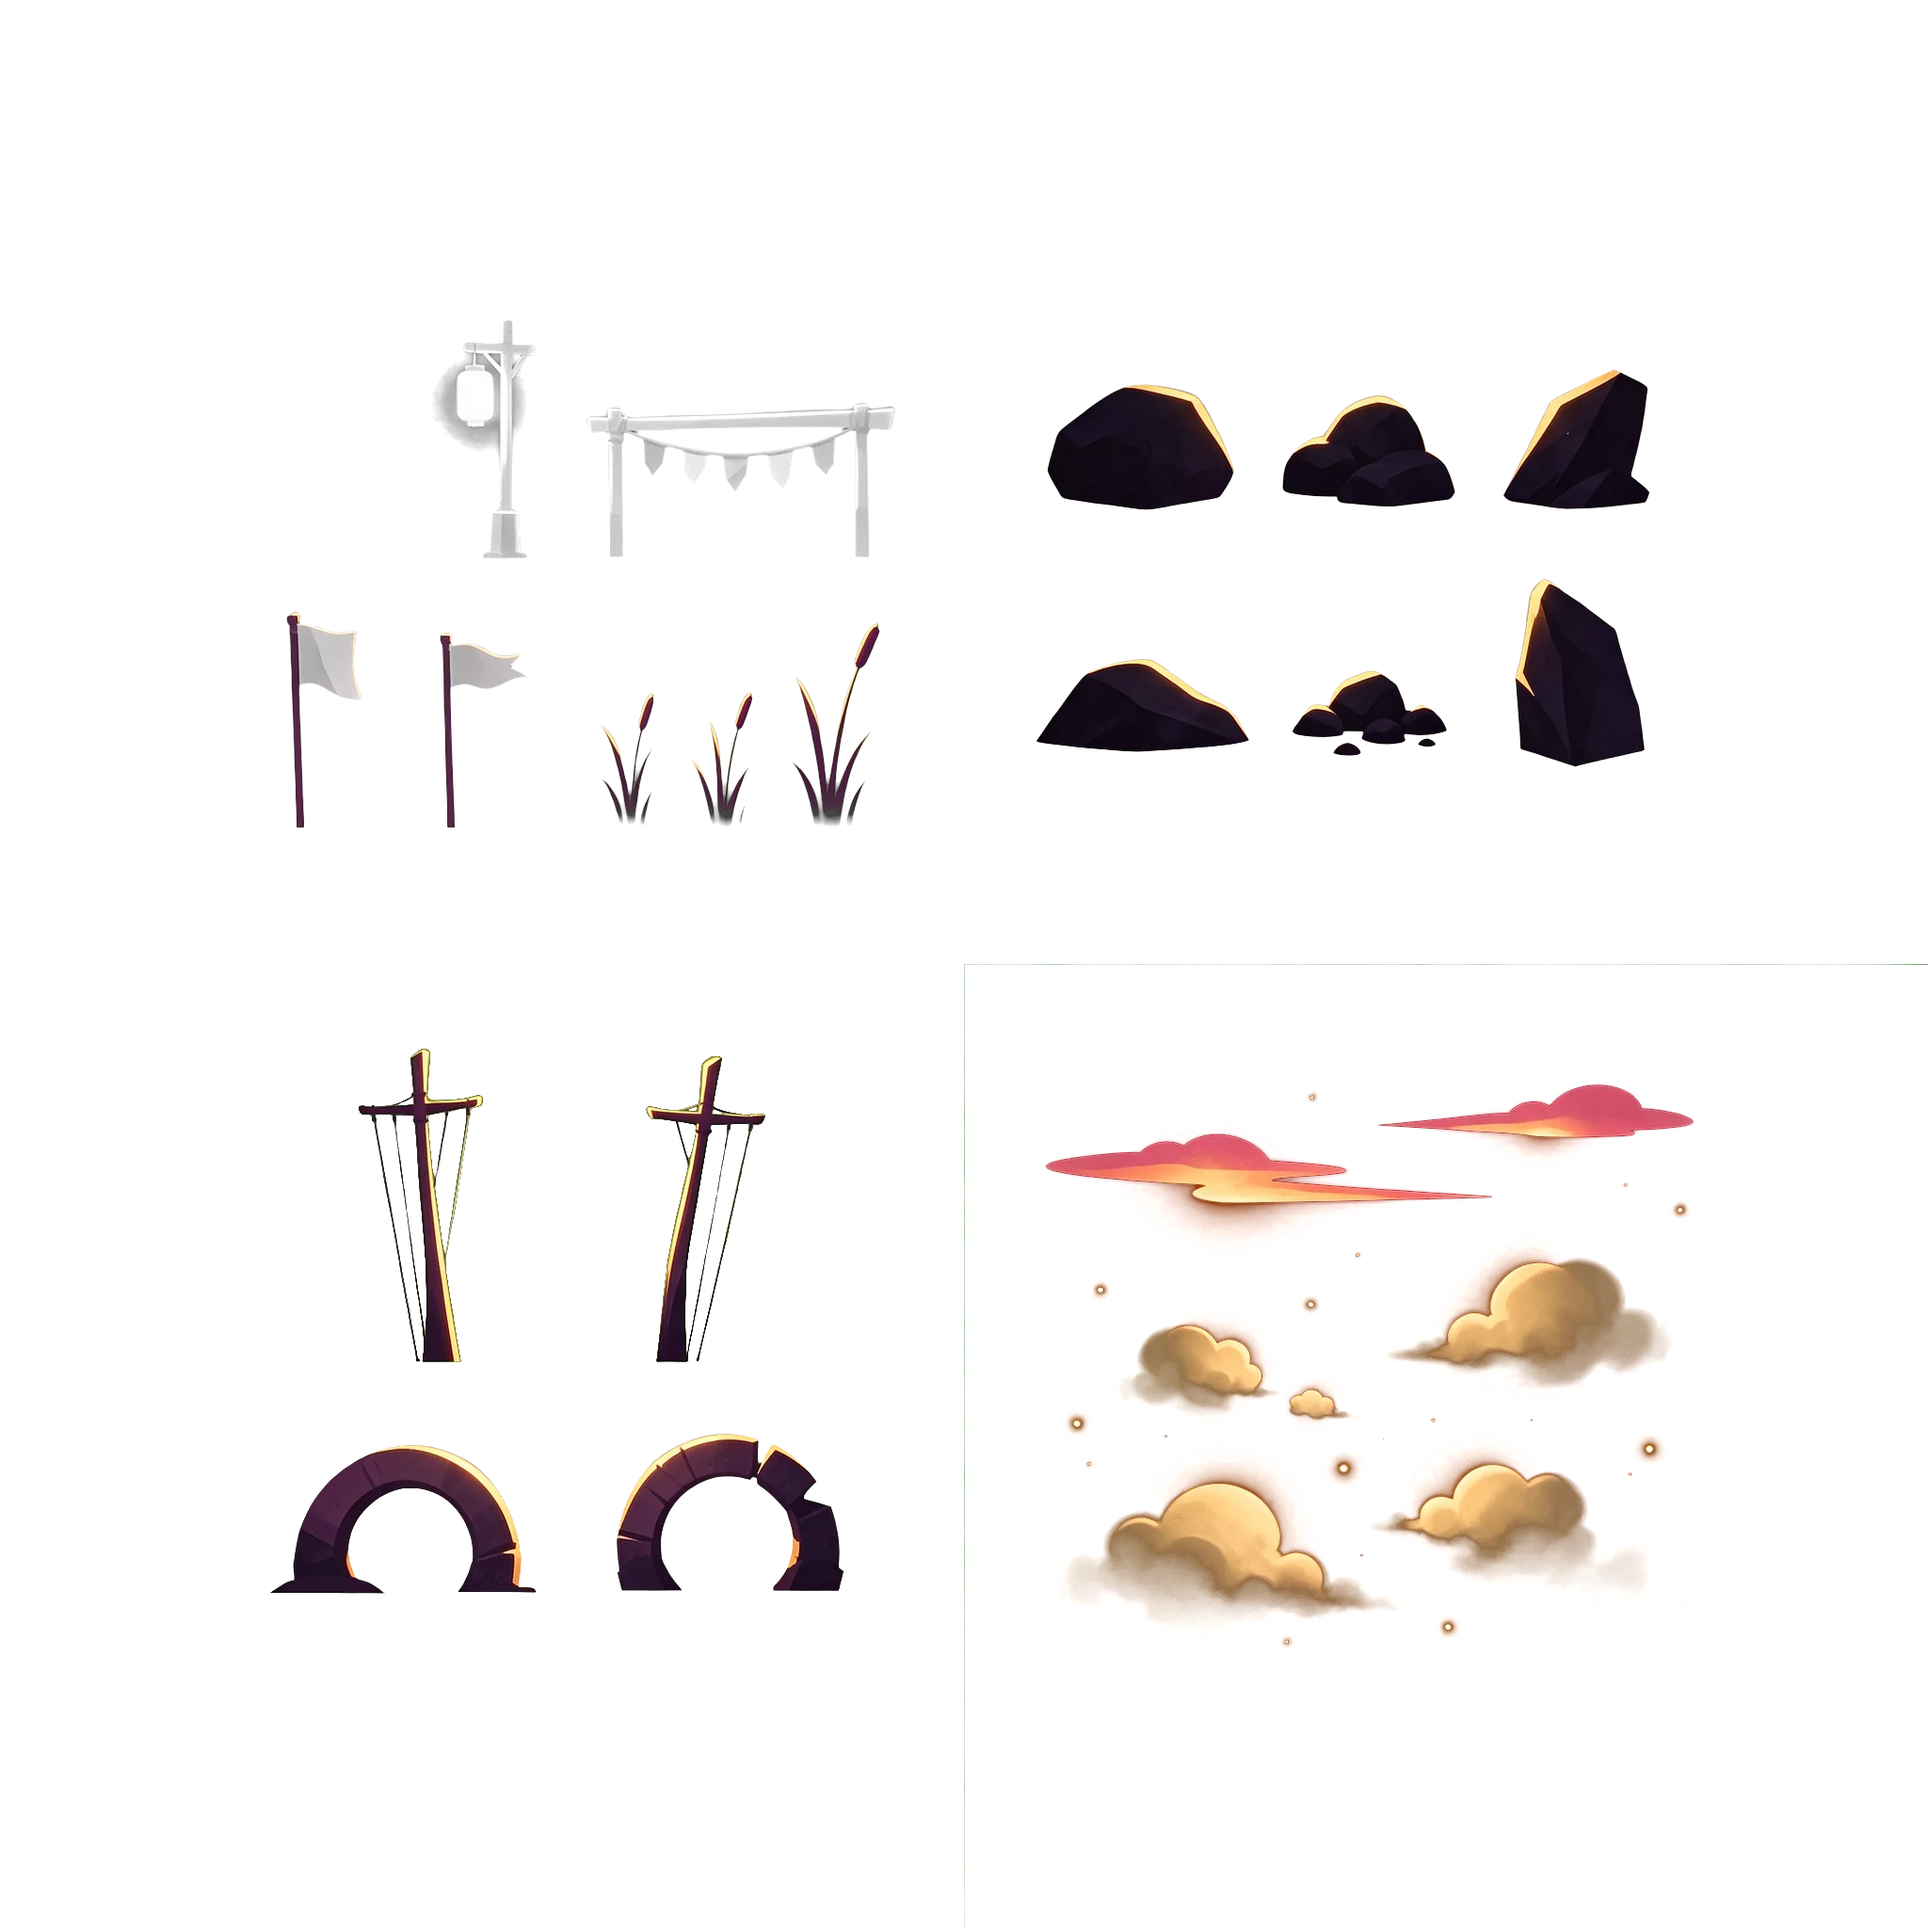
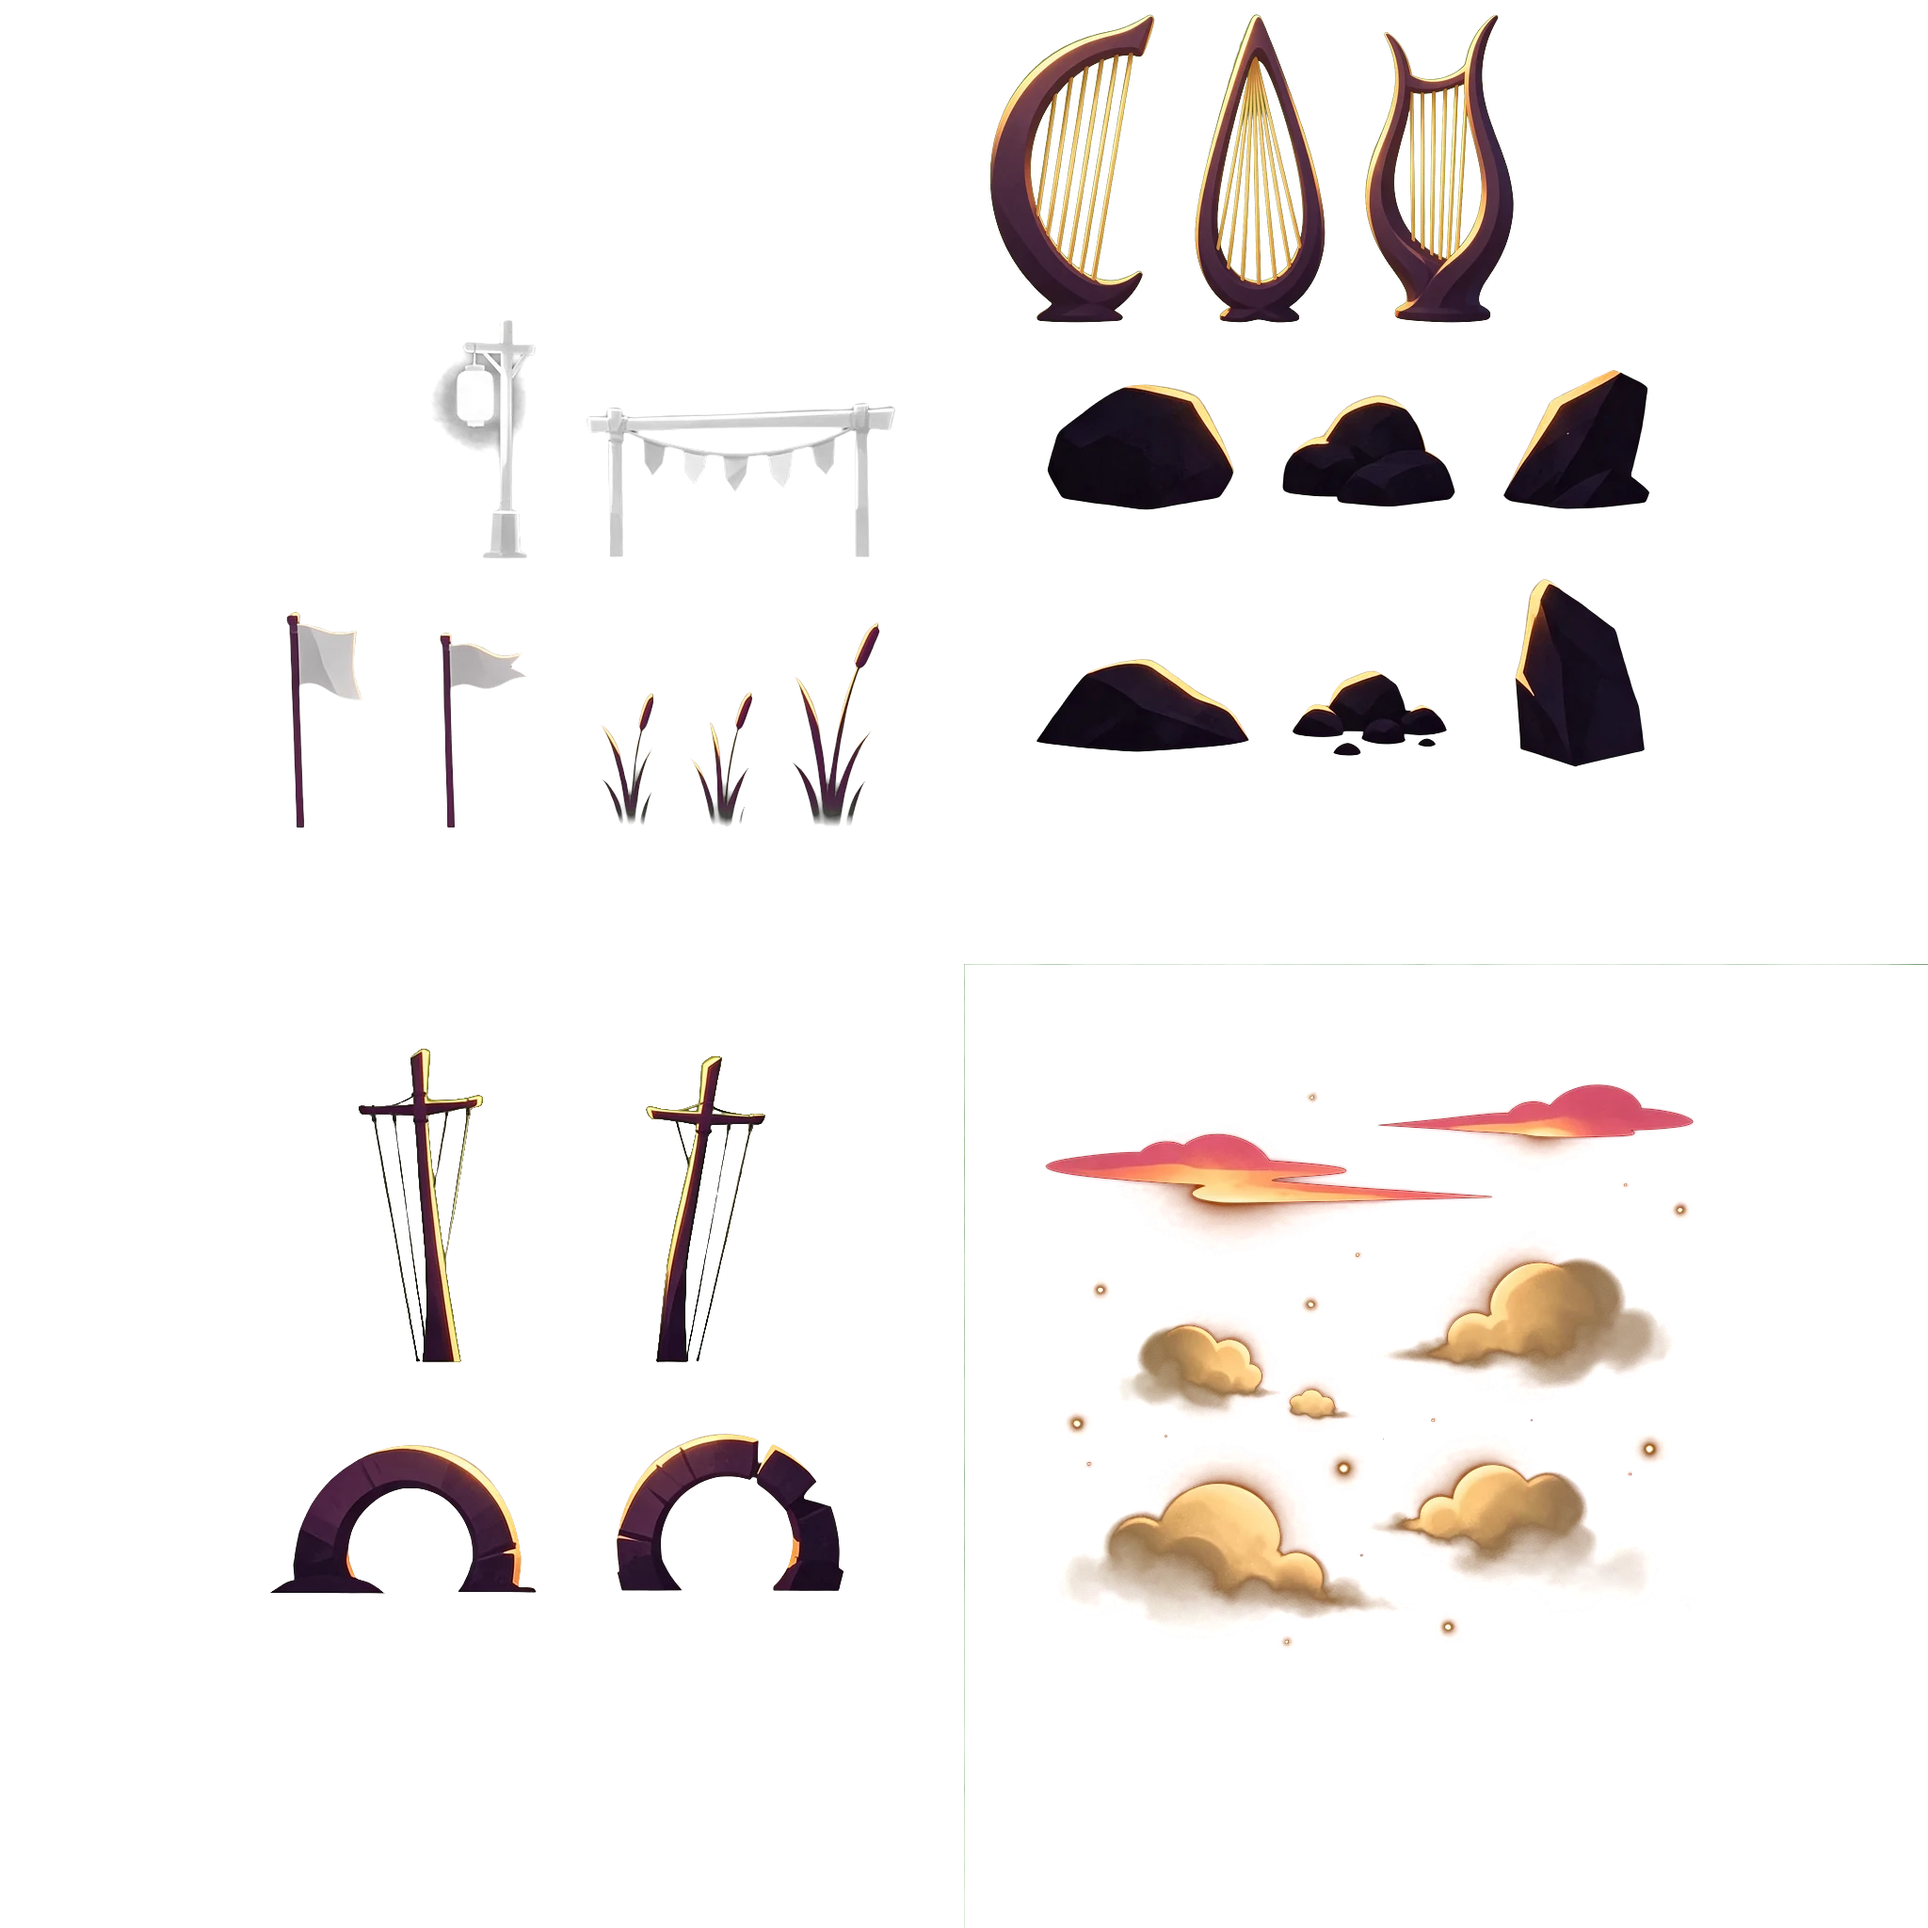
Ridgeline: harpC/D/E wind-harp art from design thread
Claude-Session: https://claude.ai/code/session_01Lcw2xx8cVApTMWxPfFNBkt

Changed region(s): [[0.5, 0.0, 0.7812, 0.1875]]

diff --git a/pages/ridgeline/src/duneatlas.js b/pages/ridgeline/src/duneatlas.js
@@ -2,7 +2,7 @@
 // measured from dune-atlas.json cells (alpha > 20, 1 px margin) so billboard sizes map to the art, not to the padded cells.
 export const ATLAS_SIZE = 2048;
 export const ATLAS_URL = new URL('../assets/dune-atlas.webp', import.meta.url).href;
-export const CELLS = {"gateFrame": [621, 426, 332, 168], "flagA": [302, 648, 85, 234], "flagB": [465, 670, 98, 212], "reed1": [636, 734, 60, 145], "reed2": [731, 732, 70, 148], "reed3": [838, 659, 99, 221], "rockLump": [1110, 406, 203, 138], "rockTwo": [1360, 418, 188, 122], "rockSlab": [1595, 391, 159, 152], "rockWhale": [1098, 698, 231, 103], "rockPebbles": [1371, 710, 168, 95], "rockShard": [1607, 613, 142, 204], "harpA": [380, 1113, 134, 335], "harpB": [685, 1120, 129, 328], "arch": [285, 1533, 287, 162], "archBroken": [653, 1521, 245, 171]};
+export const CELLS = {"harpC": [1050, 14, 178, 330], "harpD": [1268, 14, 141, 330], "harpE": [1449, 14, 160, 330], "gateFrame": [621, 426, 332, 168], "flagA": [302, 648, 85, 234], "flagB": [465, 670, 98, 212], "reed1": [636, 734, 60, 145], "reed2": [731, 732, 70, 148], "reed3": [838, 659, 99, 221], "rockLump": [1110, 406, 203, 138], "rockTwo": [1360, 418, 188, 122], "rockSlab": [1595, 391, 159, 152], "rockWhale": [1098, 698, 231, 103], "rockPebbles": [1371, 710, 168, 95], "rockShard": [1607, 613, 142, 204], "harpA": [380, 1113, 134, 335], "harpB": [685, 1120, 129, 328], "arch": [285, 1533, 287, 162], "archBroken": [653, 1521, 245, 171]};
 // fx quadrant cells ({x,y,w,h}, y from top) for dunefx.js
 export const FX_CELLS = {"cloudA": {"x": 1088, "y": 1184, "w": 520, "h": 132}, "cloudB": {"x": 1444, "y": 1132, "w": 376, "h": 108}, "puff1": {"x": 1460, "y": 1316, "w": 320, "h": 176}, "puff2": {"x": 1180, "y": 1384, "w": 272, "h": 148}, "puff3": {"x": 1144, "y": 1544, "w": 332, "h": 192}, "puff4": {"x": 1452, "y": 1528, "w": 264, "h": 164}, "glints": [{"x": 1368, "y": 1140, "w": 52, "h": 52}, {"x": 1140, "y": 1344, "w": 56, "h": 52}, {"x": 1364, "y": 1360, "w": 56, "h": 52}, {"x": 1420, "y": 1308, "w": 44, "h": 48}, {"x": 1704, "y": 1236, "w": 48, "h": 44}, {"x": 1756, "y": 1256, "w": 56, "h": 56}, {"x": 1116, "y": 1484, "w": 56, "h": 56}, {"x": 1216, "y": 1504, "w": 44, "h": 44}, {"x": 1448, "y": 1508, "w": 44, "h": 44}, {"x": 1500, "y": 1484, "w": 44, "h": 48}, {"x": 1604, "y": 1484, "w": 44, "h": 48}, {"x": 1708, "y": 1508, "w": 76, "h": 80}, {"x": 1132, "y": 1532, "w": 48, "h": 48}, {"x": 1396, "y": 1528, "w": 64, "h": 64}, {"x": 1424, "y": 1628, "w": 44, "h": 48}, {"x": 1344, "y": 1720, "w": 48, "h": 48}, {"x": 1508, "y": 1700, "w": 60, "h": 56}]};
 // gate art: post centres (px, relative to the tight gateFrame rect) and inner opening between the posts

diff --git a/pages/ridgeline/src/render.js b/pages/ridgeline/src/render.js
@@ -895,7 +895,7 @@ export function createView(canvas, course, cfg, themeId, opts) {
           let cell, bw, bh;
           if (kind === 1) { cell = hk < 0.28 ? 'archBroken' : 'arch'; bw = W; bh = bw * CELLS[cell][3] / CELLS[cell][2]; }
           else if (kind === 2) { cell = hk < 0.34 ? 'reed1' : hk < 0.67 ? 'reed2' : 'reed3'; bh = H; bw = bh * CELLS[cell][2] / CELLS[cell][3]; }
-          else { cell = hk < 0.5 ? 'harpA' : 'harpB'; bh = H; bw = bh * CELLS[cell][2] / CELLS[cell][3]; }
+          else { cell = hk < 0.34 ? 'harpC' : hk < 0.67 ? 'harpD' : 'harpE'; bh = H; bw = bh * CELLS[cell][2] / CELLS[cell][3]; }
           boards.add(cell, t.x, by - 0.05 * bh * (kind === 1 ? 1 : 0.3), t.z, bw, bh, hsh(Math.floor(t.z * 100), 66) < 0.5, 0.3, null);
         } else if (kind === 1) scArch.setMatrixAt(nA++, _m); else if (kind === 2) scReed.setMatrixAt(nR++, _m); else leaves.setMatrixAt(nH++, _m);
         if (trunks) trunks.setMatrixAt(i, _m);
